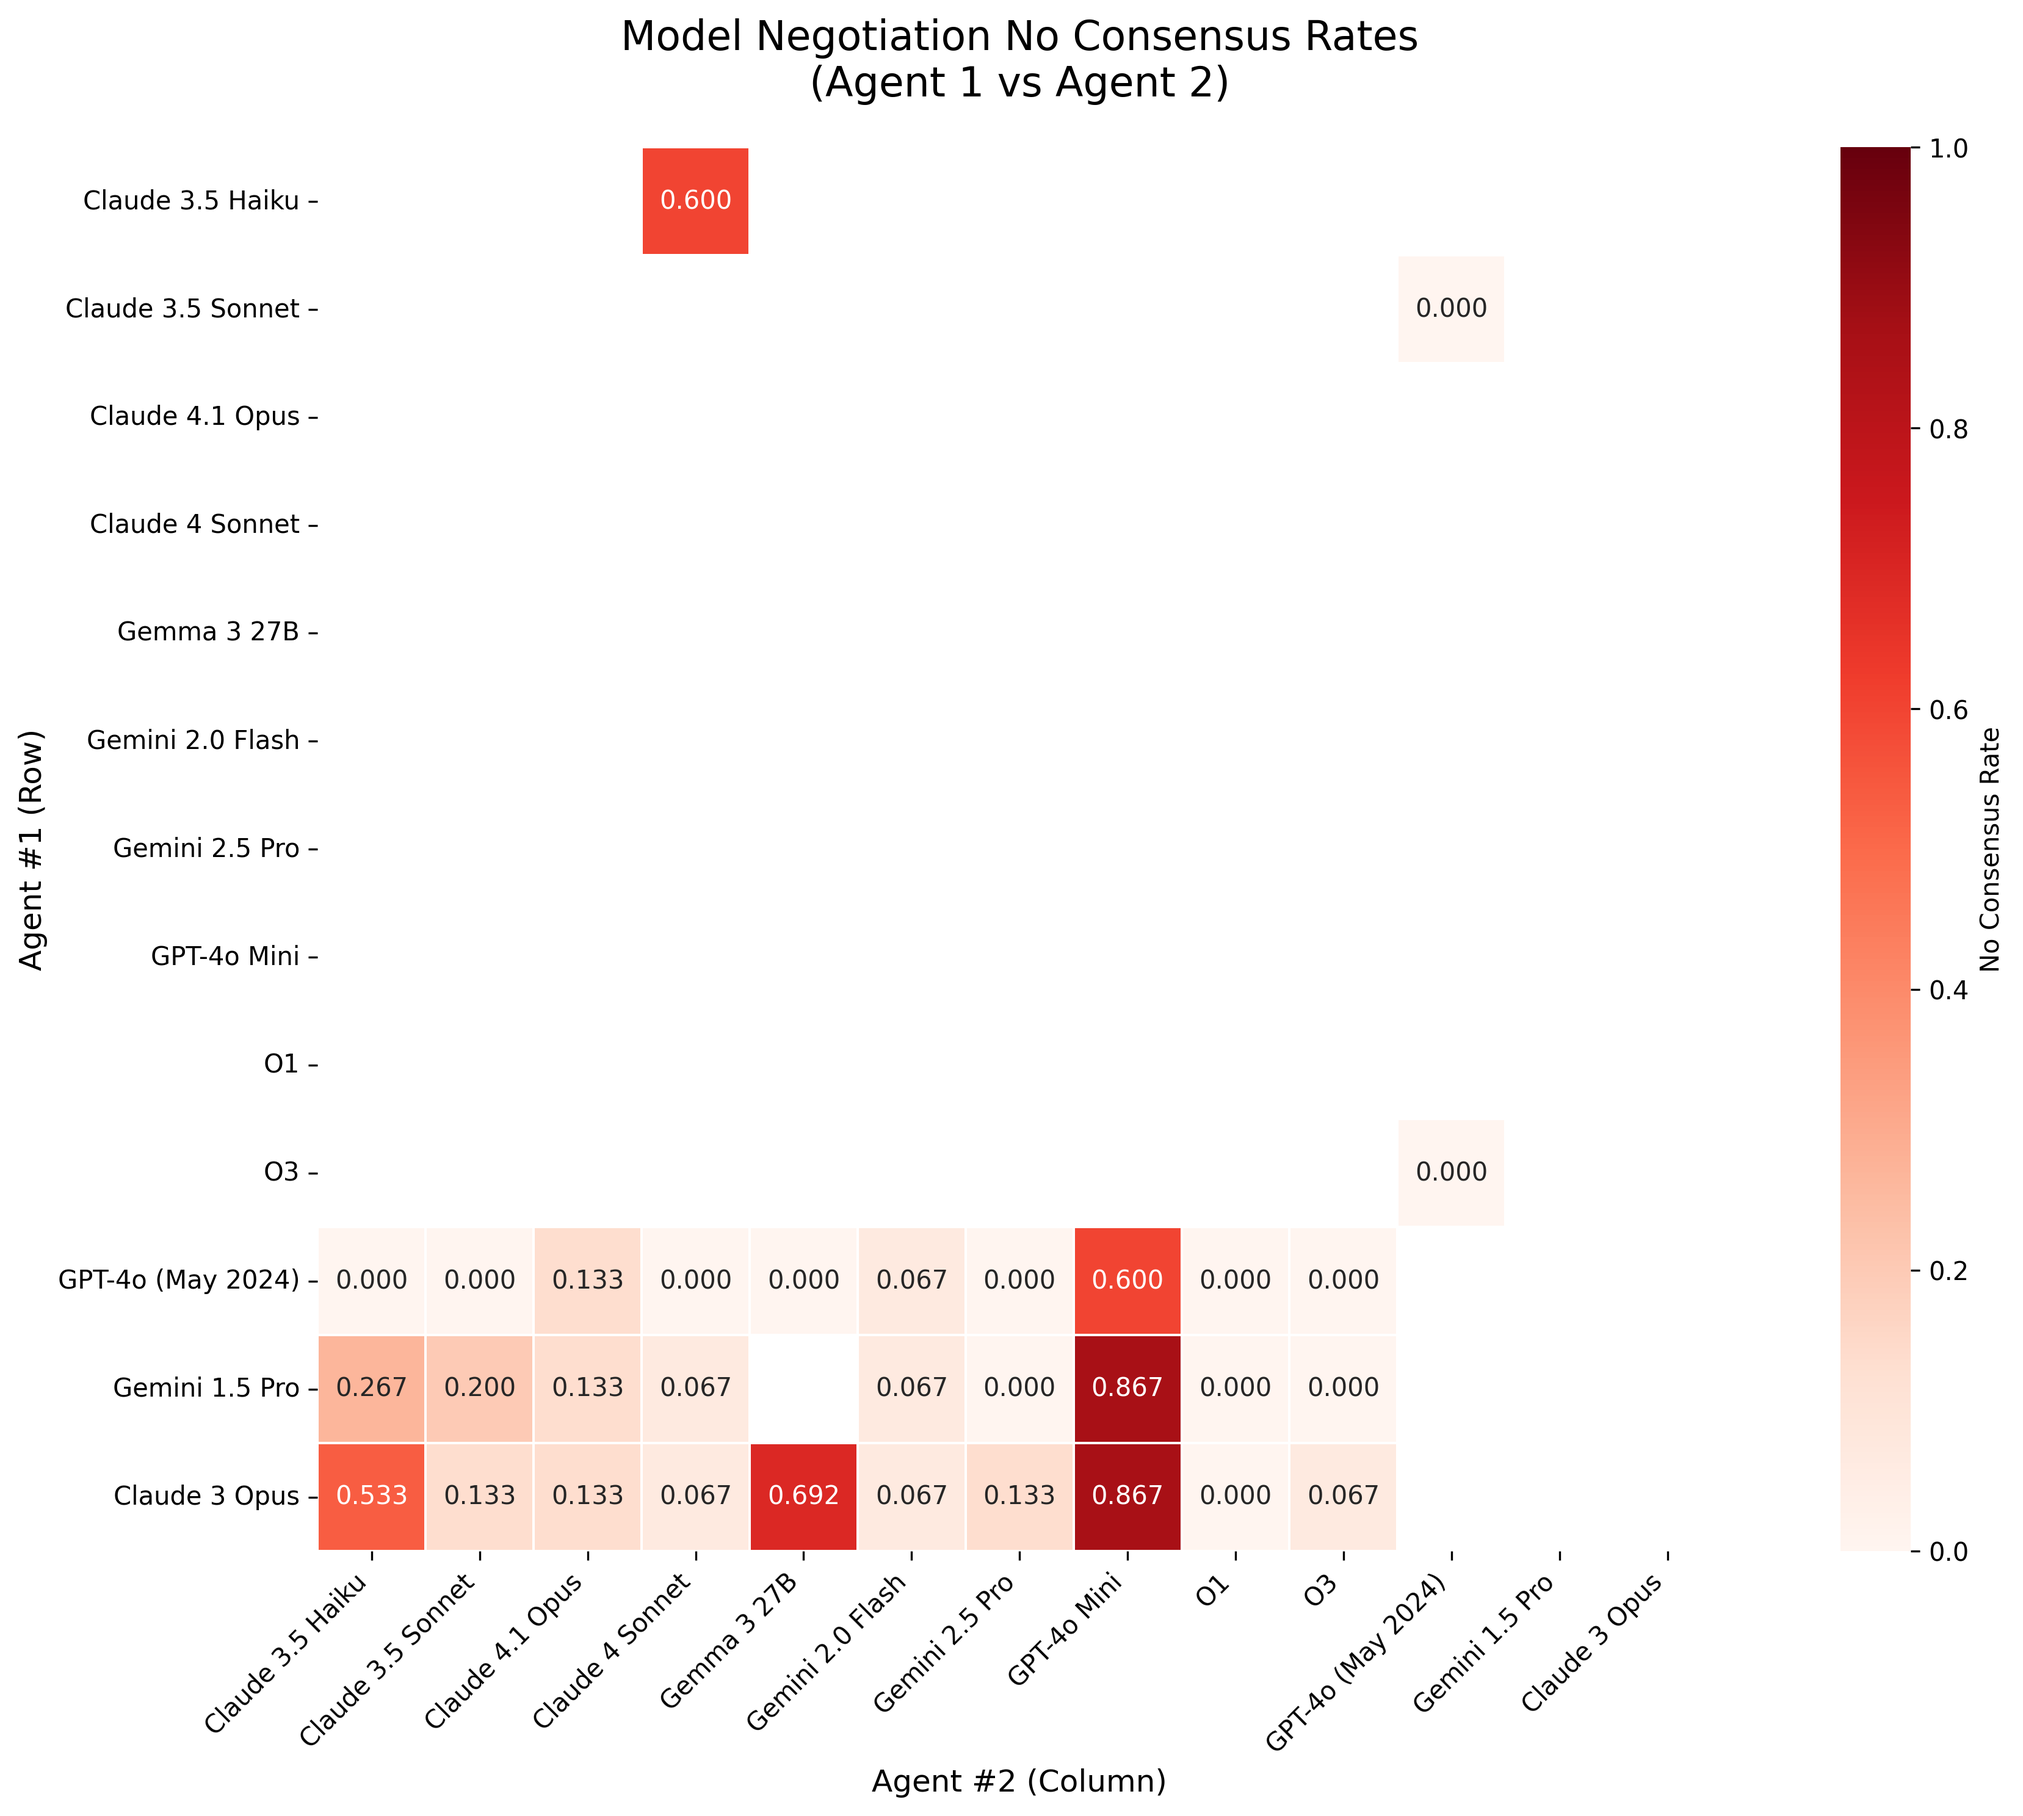
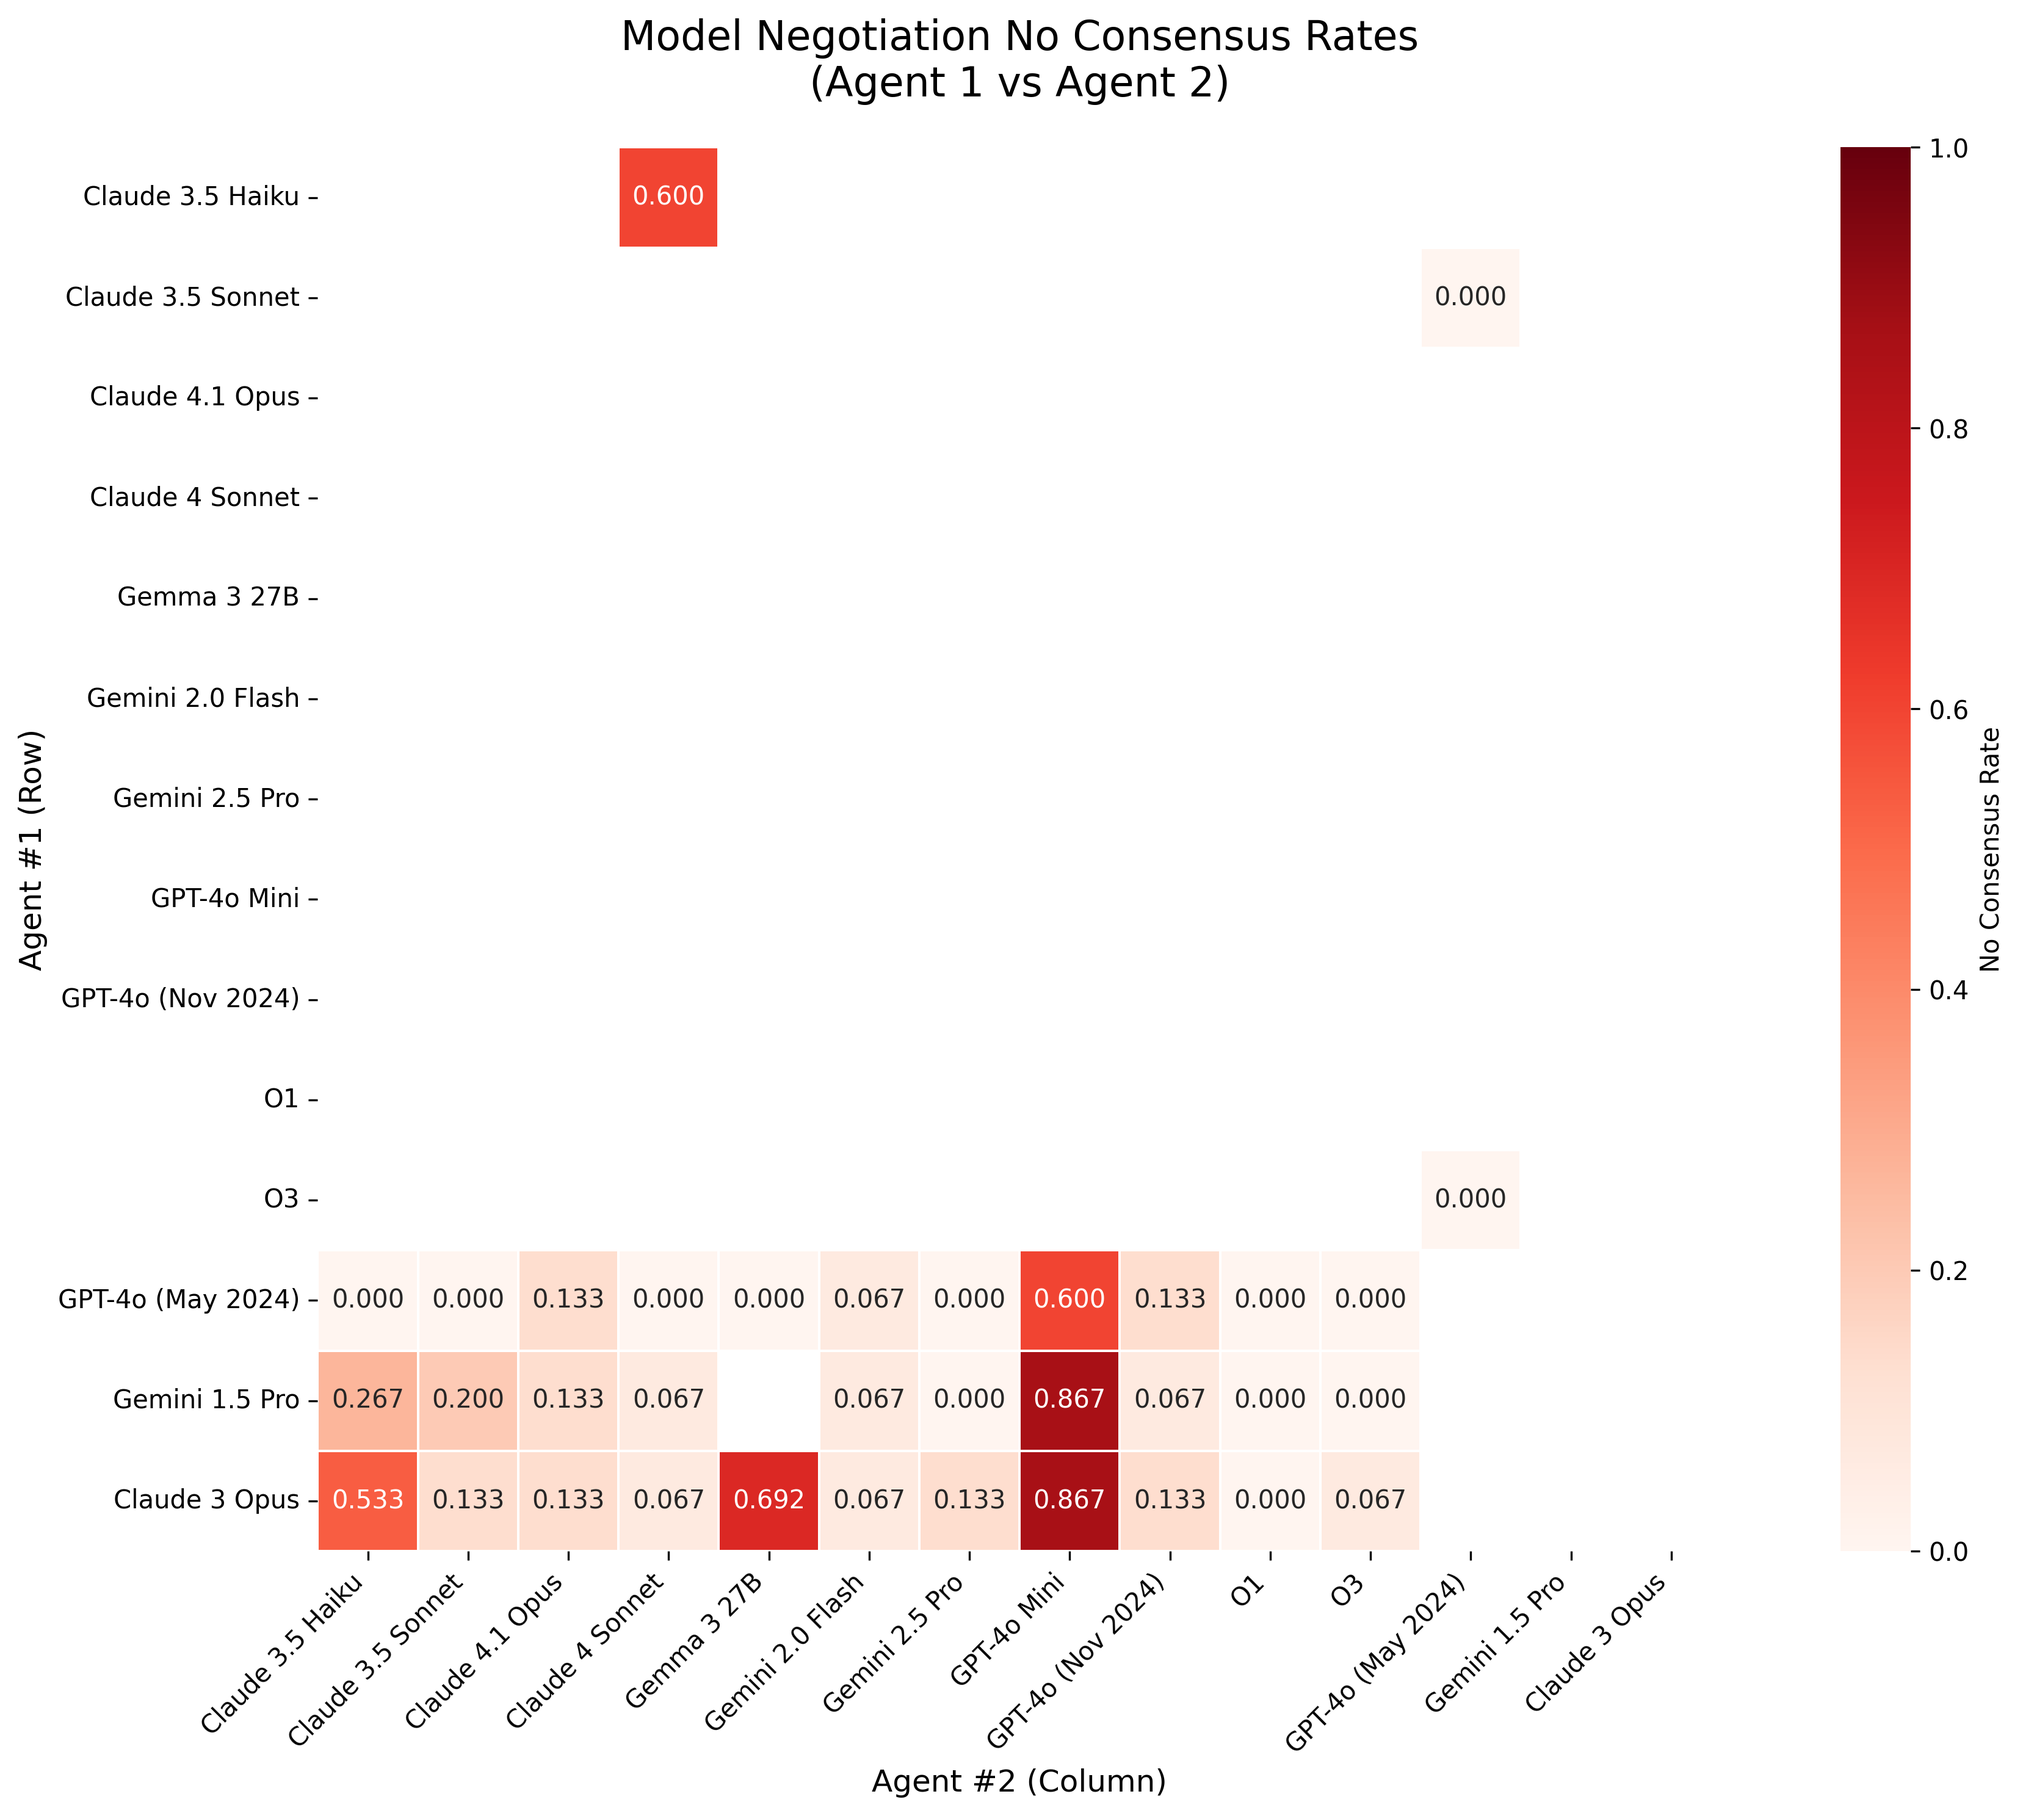
no consensus heatmap work

diff --git a/create_no_consensus_heatmap.py b/create_no_consensus_heatmap.py
@@ -30,22 +30,43 @@ def extract_model_name(agent_name):
 def normalize_model_name(model_name):
     """Normalize model names to match our target set"""
     # Handle GPT-4o variants
-    if model_name == 'gpt-4o-2024-05-13' or model_name == 'gpt-4o' or model_name == 'gpt-4o-may':
+    if 'gpt-4o-latest' in model_name or 'gpt_4o_latest' in model_name:
+        return 'gpt-4o-2024-11-20'  # Latest is Nov 2024
+    elif 'gpt-4o-mini' in model_name or 'gpt_4o_mini' in model_name:
+        return 'gpt-4o-mini'
+    elif model_name == 'gpt-4o-2024-05-13' or model_name == 'gpt-4o-may':
         return 'gpt-4o-2024-05-13'  # Baseline model (May 2024)
     elif model_name == 'gpt-4o-2024-11-20' or model_name == 'gpt-4o-nov':
         return 'gpt-4o-2024-11-20'  # Strong model (Nov 2024)
+    elif model_name == 'gpt-4o' or 'gpt_4o' in model_name:
+        # Plain gpt-4o defaults to the baseline May version
+        return 'gpt-4o-2024-05-13'
     # Handle Claude variants
-    elif model_name == 'claude-3-5-sonnet-20241022' or model_name == 'claude-3-5-sonnet':
+    elif 'claude-3-5-haiku' in model_name or 'claude_3_5_haiku' in model_name:
+        return 'claude-3-5-haiku'
+    elif model_name == 'claude-3-5-sonnet-20241022' or model_name == 'claude-3-5-sonnet' or 'claude_3_5_sonnet' in model_name:
         return 'claude-3-5-sonnet'
-    elif model_name == 'claude-3-opus' or model_name == 'claude-3-opus-20240229':
+    elif 'claude-4-1-opus' in model_name or 'claude_4_1_opus' in model_name:
+        return 'claude-4-1-opus'
+    elif 'claude-4-sonnet' in model_name or 'claude_4_sonnet' in model_name:
+        return 'claude-4-sonnet'
+    elif model_name == 'claude-3-opus' or model_name == 'claude-3-opus-20240229' or 'claude_3_opus' in model_name:
         return 'claude-3-opus'
     # Handle Gemini variants
-    elif model_name == 'gemini-1-5-pro-002' or model_name == 'gemini-1-5-pro':
+    elif model_name == 'gemini-1-5-pro-002' or model_name == 'gemini-1-5-pro' or 'gemini_1_5_pro' in model_name:
         return 'gemini-1-5-pro'
-    elif model_name == 'gemini-2-0-flash-001' or model_name == 'gemini-2-0-flash':
+    elif model_name == 'gemini-2-0-flash-001' or model_name == 'gemini-2-0-flash' or 'gemini_2_0_flash' in model_name:
         return 'gemini-2-0-flash'
-    elif model_name == 'gemini-2-5-pro-exp' or model_name == 'gemini-2-5-pro':
+    elif model_name == 'gemini-2-5-pro-exp' or model_name == 'gemini-2-5-pro' or 'gemini_2_5_pro' in model_name:
         return 'gemini-2-5-pro'
+    # Handle O1 and O3
+    elif model_name == 'o1' or 'o1_' in model_name:
+        return 'o1'
+    elif model_name == 'o3' or 'o3_' in model_name:
+        return 'o3'
+    # Handle Gemma
+    elif 'gemma-3-27b' in model_name or 'gemma_3_27b' in model_name:
+        return 'gemma-3-27b'
     return model_name
 
 def load_experiment_results(results_dir):
